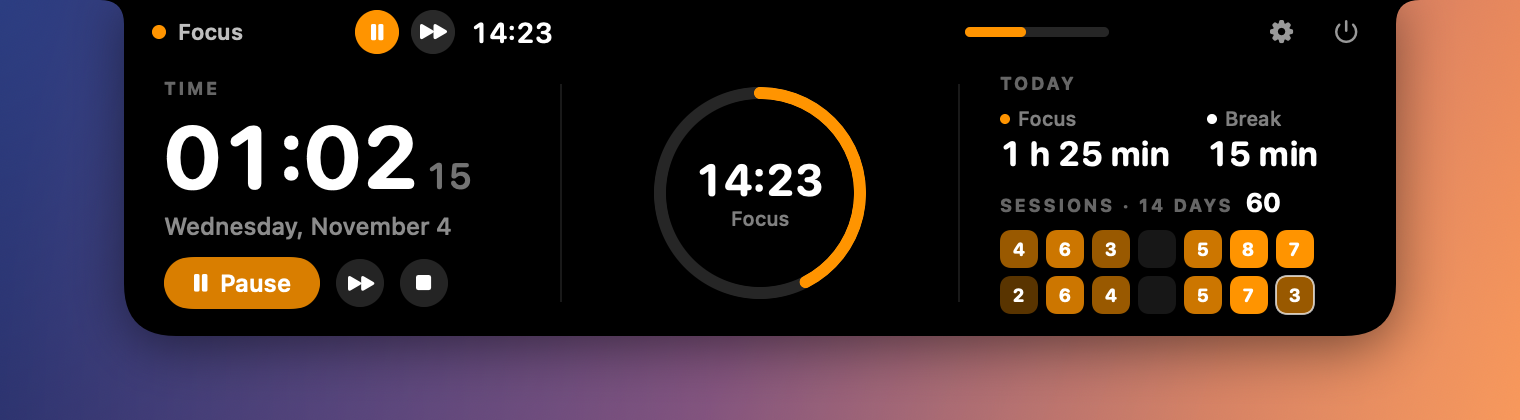
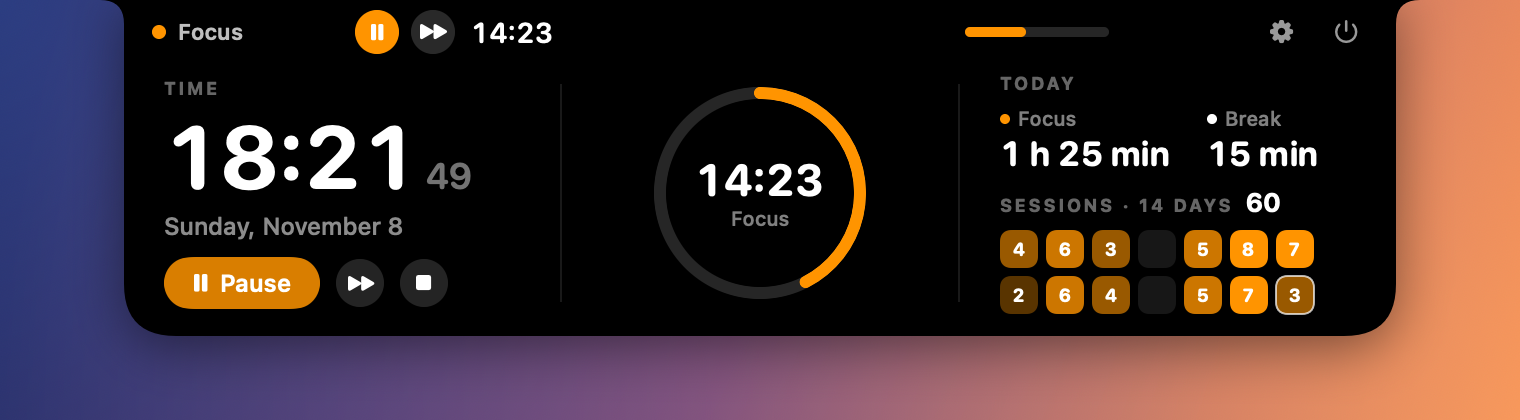
Focus-complete animation: green check, then the island closes
- After a focus phase the island drops down ~2.5 s with a self-drawing green check
- No more 4-second full expansion after a phase; breaks end with sound only
- README image and section, version 1.5.0

Changed region(s): [[0.0928, 0.2786, 0.3092, 0.4643], [0.0928, 0.5262, 0.3092, 0.5881]]

diff --git a/Sources/FocusNotch/IslandView.swift b/Sources/FocusNotch/IslandView.swift
@@ -42,7 +42,7 @@ struct IslandView: View {
 
         VStack(spacing: 0) {
             ZStack(alignment: .top) {
-                NotchShape(topRadius: t, bottomRadius: ui.isExpanded ? 26 : 10)
+                NotchShape(topRadius: t, bottomRadius: ui.isExpanded ? 26 : (ui.celebrating ? 22 : 10))
                     .fill(Color.black)
                     .frame(width: size.width, height: size.height)
                     .shadow(color: .black.opacity(ui.isExpanded ? 0.45 : 0), radius: 14, y: 6)
@@ -58,6 +58,10 @@ struct IslandView: View {
                         .padding(.bottom, ui.showSettings ? 18 : 14)
                         .frame(maxHeight: .infinity)
                         .transition(.opacity)
+                    } else if ui.celebrating {
+                        FocusCompleteView()
+                            .frame(maxHeight: .infinity)
+                            .transition(.opacity)
                     }
                 }
                 .padding(.horizontal, t)
@@ -70,6 +74,7 @@ struct IslandView: View {
         .ignoresSafeArea()
         .animation(spring, value: ui.isExpanded)
         .animation(spring, value: ui.showSettings)
+        .animation(spring, value: ui.celebrating)
         .animation(spring, value: model.phase)
         .animation(spring, value: model.isPaused)
         .preferredColorScheme(.dark)
@@ -185,6 +190,71 @@ struct ProgressRing: View {
                 .rotationEffect(.degrees(-90))
                 .animation(.linear(duration: 0.5), value: progress)
         }
+    }
+}
+
+// MARK: - Focus complete
+
+/// Green check that draws itself: circle → check → small bounce.
+struct FocusCompleteView: View {
+    @EnvironmentObject var model: PomodoroModel
+    /// Screenshots: show the finished state right away
+    @Environment(\.focusPreviewMode) private var previewMode
+
+    @State private var ring: CGFloat = 0
+    @State private var check: CGFloat = 0
+    @State private var pop: CGFloat = 0.6
+
+    static let green = Color(red: 0.20, green: 0.84, blue: 0.35)
+
+    var body: some View {
+        HStack(spacing: 14) {
+            ZStack {
+                Circle().fill(Self.green.opacity(0.18))
+                Circle()
+                    .trim(from: 0, to: previewMode ? 1 : ring)
+                    .stroke(Self.green, style: StrokeStyle(lineWidth: 3.5, lineCap: .round))
+                    .rotationEffect(.degrees(-90))
+                CheckmarkShape()
+                    .trim(from: 0, to: previewMode ? 1 : check)
+                    .stroke(Self.green, style: StrokeStyle(lineWidth: 4.5, lineCap: .round, lineJoin: .round))
+                    .padding(13)
+            }
+            .frame(width: 46, height: 46)
+            .scaleEffect(previewMode ? 1 : pop)
+
+            VStack(alignment: .leading, spacing: 2) {
+                Text(model.lang.pick("Focus complete!", "Fokus geschafft!"))
+                    .font(.system(size: 16, weight: .bold, design: .rounded))
+                    .foregroundStyle(.white)
+                Text(model.phase.isBreak
+                     ? model.lang.pick("Time for a break", "Zeit für eine Pause")
+                     : model.lang.pick("+1 session", "+1 Session"))
+                    .font(.system(size: 12, weight: .medium))
+                    .foregroundStyle(.white.opacity(0.6))
+            }
+            .opacity(previewMode || check > 0 ? 1 : 0)
+            .offset(x: previewMode || check > 0 ? 0 : -6)
+        }
+        .padding(.bottom, 6)
+        .onAppear {
+            guard !previewMode else { ring = 1; check = 1; pop = 1; return }
+            withAnimation(.spring(response: 0.4, dampingFraction: 0.6)) { pop = 1 }
+            withAnimation(.easeOut(duration: 0.45).delay(0.15)) { ring = 1 }
+            withAnimation(.easeOut(duration: 0.35).delay(0.55)) { check = 1 }
+            withAnimation(.spring(response: 0.25, dampingFraction: 0.45).delay(0.9)) { pop = 1.12 }
+            withAnimation(.spring(response: 0.3, dampingFraction: 0.7).delay(1.1)) { pop = 1 }
+        }
+    }
+}
+
+struct CheckmarkShape: Shape {
+    func path(in r: CGRect) -> Path {
+        var p = Path()
+        p.move(to: CGPoint(x: r.minX, y: r.midY + r.height * 0.02))
+        p.addLine(to: CGPoint(x: r.minX + r.width * 0.36, y: r.maxY - r.height * 0.12))
+        p.addLine(to: CGPoint(x: r.maxX, y: r.minY + r.height * 0.1))
+        return p
     }
 }
 

diff --git a/Sources/FocusNotch/IslandController.swift b/Sources/FocusNotch/IslandController.swift
@@ -31,6 +31,10 @@ final class IslandUIState: ObservableObject {
     @Published var showSettings = false
     @Published var notchSize = CGSize(width: 190, height: 32)
     @Published var hasNotch = true
+    /// Completion animation after a focus phase (green check, ~2.5 s).
+    @Published var celebrating = false
+
+    static let celebrationDuration: TimeInterval = 2.5
 
     /// Width left and right of the notch when collapsed.
     static let sideWidth: CGFloat = 136
@@ -40,6 +44,9 @@ final class IslandUIState: ObservableObject {
             // Main view as tall as the round timer; settings need more room
             return CGSize(width: max(660, notchSize.width + 2 * Self.sideWidth + 80),
                           height: notchSize.height + (showSettings ? 196 : 136))
+        }
+        if celebrating {
+            return CGSize(width: notchSize.width + 2 * Self.sideWidth, height: notchSize.height + 76)
         }
         return CGSize(width: notchSize.width + 2 * Self.sideWidth, height: notchSize.height)
     }
@@ -85,8 +92,10 @@ final class IslandController {
             MainActor.assumeIsolated { self?.previousApp = app }
         }
 
-        model.onPhaseFinished = { [weak self] in
-            self?.pinnedUntil = Date().addingTimeInterval(4)
+        // Focus done: show the green check, then close again by itself
+        model.onPhaseFinished = { [weak self] finished in
+            guard finished == .focus else { return }
+            self?.celebrate()
         }
 
         let t = Timer(timeInterval: 1.0 / 30.0, repeats: true) { [weak self] _ in
@@ -98,6 +107,16 @@ final class IslandController {
 
     /// Last active other app – gets focus back after a widget click.
     private var previousApp: NSRunningApplication?
+
+    private var celebrationEnd: DispatchWorkItem?
+
+    private func celebrate() {
+        celebrationEnd?.cancel()
+        ui.celebrating = true
+        let end = DispatchWorkItem { [weak self] in MainActor.assumeIsolated { self?.ui.celebrating = false } }
+        celebrationEnd = end
+        DispatchQueue.main.asyncAfter(deadline: .now() + IslandUIState.celebrationDuration, execute: end)
+    }
 
     /// Control via URL (from the widget).
     func handle(url: URL) {

diff --git a/tools/Screenshots/main.swift b/tools/Screenshots/main.swift
@@ -89,6 +89,7 @@ struct Screen: View {
     let model: PomodoroModel
     var expanded = false
     var settings = false
+    var celebrating = false
     var menuBar = false
 
     var body: some View {
@@ -96,10 +97,12 @@ struct Screen: View {
         ui.notchSize = notch
         ui.isExpanded = expanded
         ui.showSettings = settings
+        ui.celebrating = celebrating
         return ZStack(alignment: .top) {
             Wallpaper()
             if menuBar { MenuBar() }
             IslandView().environmentObject(model).environmentObject(ui)
+                .environment(\.focusPreviewMode, true)
         }
     }
 }
@@ -177,6 +180,7 @@ MainActor.assumeIsolated {
     save("island-idle", width: 760, height: 64) { Screen(model: idle) }
     save("island-running", width: 760, height: 64) { Screen(model: running) }
     save("island-expanded", width: 760, height: 210) { Screen(model: running, expanded: true) }
+    save("island-complete", width: 760, height: 140) { Screen(model: idle, celebrating: true) }
     save("island-settings", width: 760, height: 270) { Screen(model: idle, expanded: true, settings: true) }
     save("widgets", width: 640, height: 230) {
         ZStack { Wallpaper(); Widgets(idle: idleSnap, running: runningSnap) }

diff --git a/Sources/FocusNotch/Model.swift b/Sources/FocusNotch/Model.swift
@@ -91,7 +91,7 @@ final class PomodoroModel: ObservableObject {
     @Published var settings = PomodoroSettings() { didSet { save() } }
 
     /// Called when a phase ends on its own.
-    var onPhaseFinished: (() -> Void)?
+    var onPhaseFinished: ((Phase) -> Void)?
 
     private var cycleCount = 0 // completed Pomodoros since the last long break
     private var ticker: Timer?
@@ -224,6 +224,7 @@ final class PomodoroModel: ObservableObject {
     }
 
     private func finishPhase() {
+        let finished = phase
         if phase == .focus {
             log(.focus, seconds: phaseDuration, completed: true)
             cycleCount += 1
@@ -234,7 +235,7 @@ final class PomodoroModel: ObservableObject {
             playSound("Hero")
             stop()
         }
-        onPhaseFinished?()
+        onPhaseFinished?(finished)
     }
 
     private func playSound(_ name: String) {

diff --git a/README.md b/README.md
@@ -73,6 +73,14 @@ Move the mouse onto the notch and the island expands. The header buttons **stay 
 | **Center** | Round timer with remaining time and phase |
 | **Right** | **Today:** focus time and break time (live) · **Sessions of the last 14 days** as boxes with the count per day – the color intensity adapts automatically to your best day |
 
+### Focus complete
+
+When a focus phase ends, the island drops down for about 2.5 seconds: a green check draws itself, then the island closes again on its own – and the break starts.
+
+<p align="center">
+  <img src="docs/images/island-complete.png" width="720" alt="Focus complete animation">
+</p>
+
 ### Settings
 
 Click the gear: focus, short break and long break length, how many sessions until the long break, **accent color**, auto-start breaks, sound, launch at login, **language** (English / Deutsch) and reset statistics.
@@ -102,7 +110,7 @@ Two sizes for your desktop. The buttons are **real widget buttons** (App Intents
 
 ### Also
 
-- A sound at the end of every phase, then the break starts automatically (can be turned off)
+- A sound at the end of every phase; after a focus phase the break starts automatically (can be turned off)
 - Every 4th break is a long break (configurable)
 - A running or paused timer survives an app restart
 - **Bilingual:** English and German, switchable in the settings (starts in your Mac's system language); the widget follows along
